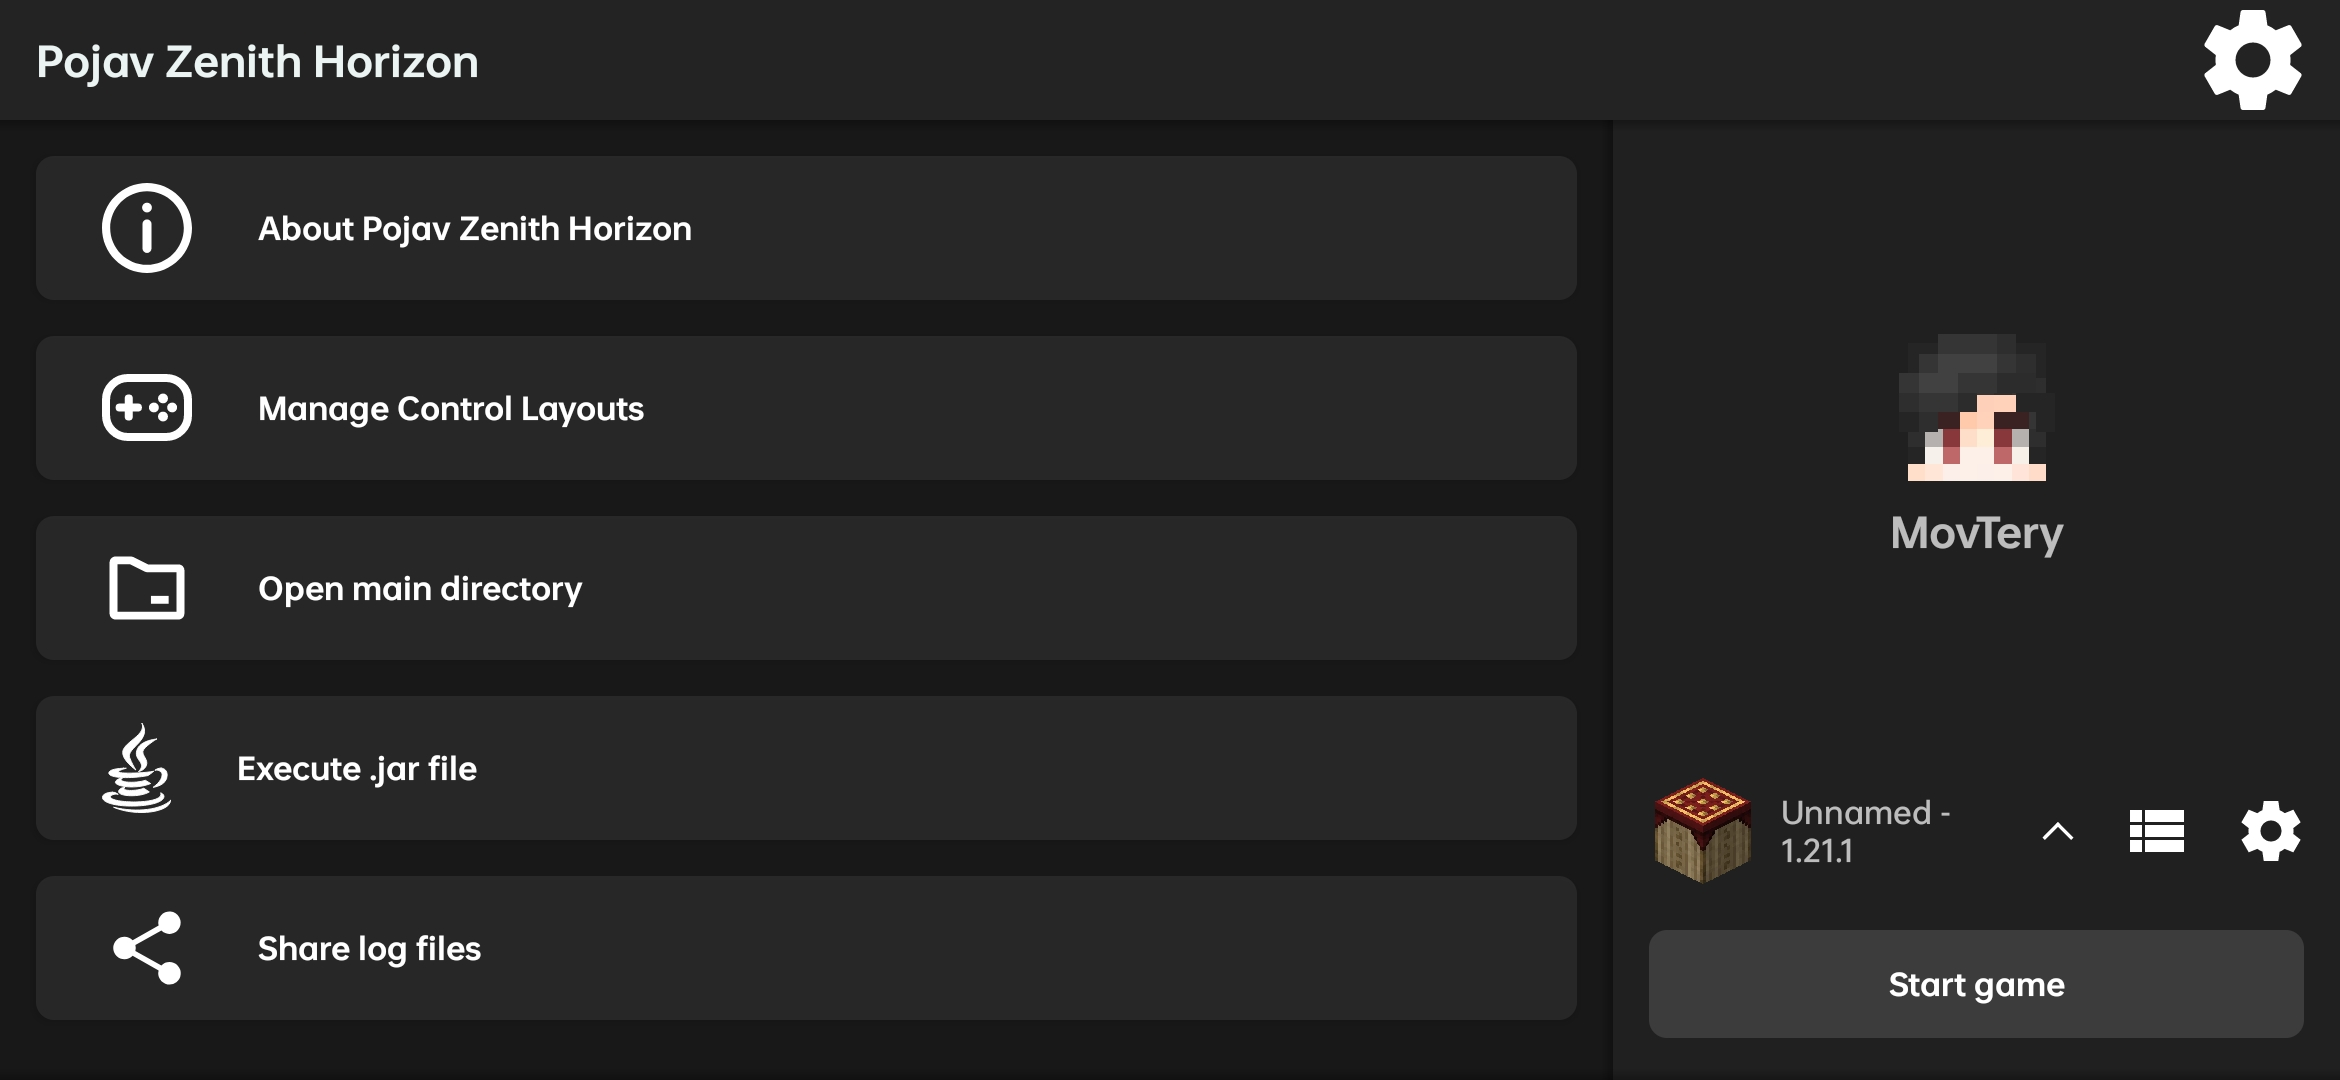
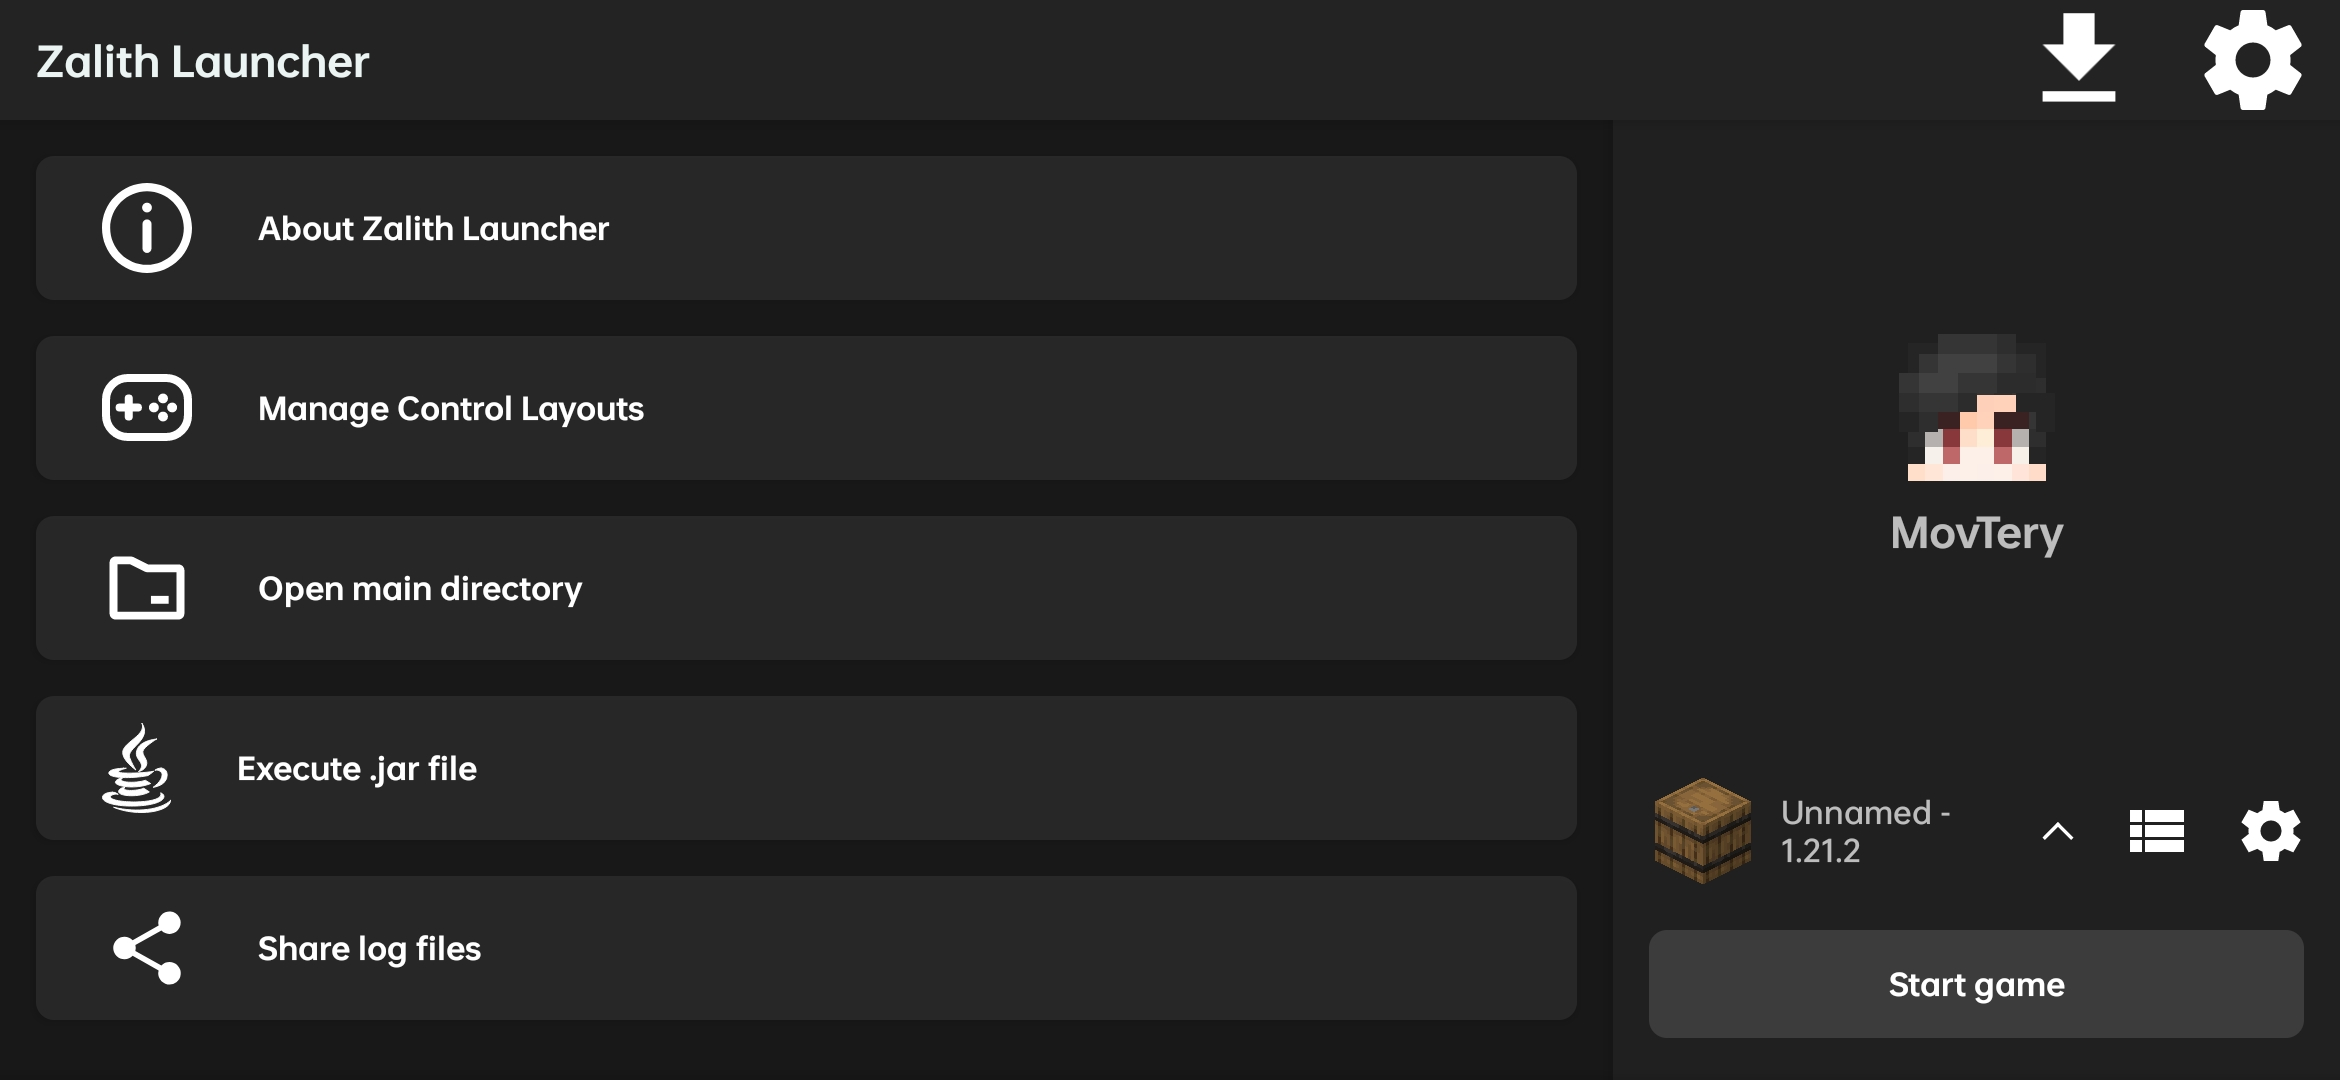
调整名称、自述文件

diff --git a/ZalithLauncher/src/main/java/com/movtery/zalithlauncher/utils/PathAndUrlManager.kt b/ZalithLauncher/src/main/java/com/movtery/zalithlauncher/utils/PathAndUrlManager.kt
@@ -18,7 +18,7 @@ class PathAndUrlManager {
         private const val TIME_OUT = 8000
         private const val URL_USER_AGENT: String = "PZH/${BuildConfig.VERSION_NAME}" //此处不做更改，继承 Pojav Zenith Horizon
         const val URL_GITHUB_RELEASE: String = "https://api.github.com/repos/MovTery/ZalithLauncher/releases/latest"
-        const val URL_GITHUB_HOME: String = "https://api.github.com/repos/MovTery/PZH-InfoRetrieval/contents/"
+        const val URL_GITHUB_HOME: String = "https://api.github.com/repos/MovTery/Zalith-Info/contents/"
         const val URL_MCMOD: String = "https://www.mcmod.cn/"
         const val URL_MINECRAFT: String = "https://www.minecraft.net/"
         const val URL_SUPPORT: String = "https://afdian.com/a/MovTery"

diff --git a/README.md b/README.md
@@ -3,14 +3,12 @@
 </div>
 
 [![Android CI](https://github.com/MovTery/ZalithLauncher/actions/workflows/android.yml/badge.svg)](https://github.com/MovTery/ZalithLauncher/actions/workflows/android.yml)
-[![Crowdin](https://badges.crowdin.net/pojav-zenith-horizon/localized.svg)](https://crowdin.com/project/pojav-zenith-horizon)
 ![Downloads](https://img.shields.io/github/downloads/MovTery/ZalithLauncher/total)
 [![Sponsor](https://img.shields.io/badge/sponsor-30363D?logo=GitHub-Sponsors)](https://afdian.com/a/MovTery)
 
 - <a href="/README-EN_US.md">English</a>丨<a href="/README-ZH_TW.md">繁體中文</a>
 - Zalith Launcher 是一款基于 [PojavLauncher](https://github.com/PojavLauncherTeam/PojavLauncher) 开发的 Minecraft 启动器，它能够在 Android 设备上运行 [Minecraft: Java Edition](https://www.minecraft.net/)。
 - Zalith Launcher 致力于优化用户体验，重新设计了应用界面，新增了更多实用的功能，旨在最大程度地降低游玩门槛，让更多人能够轻松体验 Minecraft 的乐趣。
-- 你可以前往 [Crowdin](https://zh.crowdin.com/project/pojav-zenith-horizon) 帮助我翻译 Zalith Launcher！
 
 **注意！此项目只是一个社区改版，就像 PojavLauncher 的前身 [Boardwalk](https://github.com/zhuowei/Boardwalk) 一样。**
 

diff --git a/README-ZH_TW.md b/README-ZH_TW.md
@@ -3,14 +3,12 @@
 </div>
 
 [![Android CI](https://github.com/MovTery/ZalithLauncher/actions/workflows/android.yml/badge.svg)](https://github.com/MovTery/ZalithLauncher/actions/workflows/android.yml)
-[![Crowdin](https://badges.crowdin.net/pojav-zenith-horizon/localized.svg)](https://crowdin.com/project/pojav-zenith-horizon)
 ![Downloads](https://img.shields.io/github/downloads/MovTery/ZalithLauncher/total)
 [![Sponsor](https://img.shields.io/badge/sponsor-30363D?logo=GitHub-Sponsors)](https://afdian.com/a/MovTery)
 
 - <a href="/README-EN_US.md">English</a>丨<a href="/README.md">简体中文</a>
 - Zalith Launcher 是一款基於 [PojavLauncher](https://github.com/PojavLauncherTeam/PojavLauncher) 開發的 Minecraft 啟動器，它能夠在 Android 設備上運行 [Minecraft: Java Edition](https://www.minecraft.net/)。
 - Zalith Launcher 致力於優化用戶體驗，重新設計了應用介面，新增了更多實用的功能，旨在最大程度地降低遊玩門檻，讓更多人能夠輕鬆體驗 Minecraft 的樂趣。
-- 你可以前往 [Crowdin](https://zh.crowdin.com/project/pojav-zenith-horizon) 幫助我翻譯 Zalith Launcher！
 
 **注意！此項目只是一個社群改版，就像 PojavLauncher 的前身 [Boardwalk](https://github.com/zhuowei/Boardwalk) 一樣。**
 

diff --git a/README-EN_US.md b/README-EN_US.md
@@ -3,14 +3,12 @@
 </div>
 
 [![Android CI](https://github.com/MovTery/ZalithLauncher/actions/workflows/android.yml/badge.svg)](https://github.com/MovTery/ZalithLauncher/actions/workflows/android.yml)
-[![Crowdin](https://badges.crowdin.net/pojav-zenith-horizon/localized.svg)](https://crowdin.com/project/pojav-zenith-horizon)
 ![Downloads](https://img.shields.io/github/downloads/MovTery/ZalithLauncher/total)
 [![Sponsor](https://img.shields.io/badge/sponsor-30363D?logo=GitHub-Sponsors)](https://afdian.com/a/MovTery)
 
 - <a href="/README.md">简体中文</a>丨<a href="/README-ZH_TW.md">繁體中文</a>
 - Zalith Launcher is a Minecraft launcher based on [PojavLauncher](https://github.com/PojavLauncherTeam/PojavLauncher) that runs [Minecraft: Java Edition](https://www.minecraft.net/) on Android devices.
 - Zalith Launcher aims to enhance user experience by redesigning the app interface, adding more practical features, and lowering the barrier to entry, making it easier for more people to enjoy Minecraft.
-- You can help translate Zalith Launcher on [Crowdin](https://zh.crowdin.com/project/pojav-zenith-horizon)!
 
 **Notice! This project is just a community-made modification, similar to PojavLauncher’s predecessor, [Boardwalk](https://github.com/zhuowei/Boardwalk).**
 
